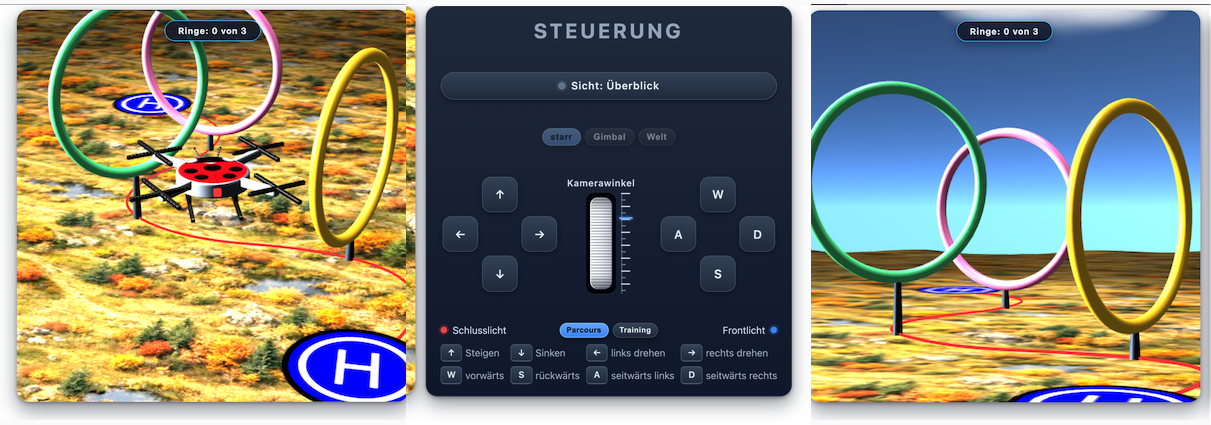
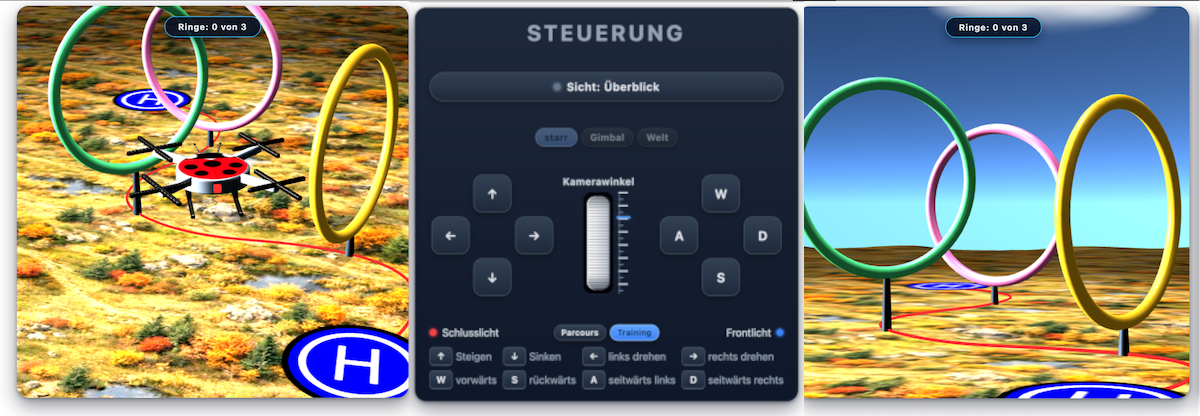
docs: neue README-Aufnahme + Hinweis auf die beiden Levels
- Screenshot-Collage neu (Level-Umschalter zeigt Training als aktiven
  Modus), Alt-Text angepasst
- README: blockzitierter Hinweis auf die beiden Levels Parcours und
  Training direkt unter dem Bild, Steuerungszeile auf Level-Terminologie
  umgestellt

diff --git a/README.md b/README.md
@@ -10,7 +10,12 @@ Der Simulator ist Teil eines Moodle-Kurses zum Thema Drohnen steuern. Der Kurs e
 und rechtliche Anforderungen und Voraussetzungen, im zweiten Teil werden mit Überflugverbotskarten
 und wichtigen Drohnen- und Kameraeinstellungen Flüge geplant.
 
-<img src="docs/drohnensimulator.png" alt="Drohnen-Simulator: Kurs mit drei Ringen" width="700">
+<img src="docs/drohnensimulator.png" alt="Drohnen-Simulator: Steuerung mit dem Level-Umschalter Parcours und Training" width="700">
+
+> **Neu – die beiden Levels:** Im Steuerpanel lässt sich zwischen **Parcours**
+> (drei Ringe auf Pfosten mit Durchflug-Zähler) und **Training** (einfacher Flug vom
+> Start- zum Zielplatz ohne Ringe und Stangen) umschalten – beim Wechsel startet die
+> Drohne neu auf dem Startplatz mit einem frisch gewürfelten Kurs.
 
 ## Features
 
@@ -53,7 +58,7 @@ und wichtigen Drohnen- und Kameraeinstellungen Flüge geplant.
 | Sicht-Knopf | Überblick ↔ FPV (Nase) |
 | `starr \| Gimbal \| Welt` | FPV-Ausrichtung der Kamera |
 | Kamerawinkel-Rad | Kopfneigung in der FPV |
-| `Parcours \| Training` | Modus: Parcours (Ringe + Pfosten) ↔ Training (einfacher Ziel-Flug); Umschalten = Neustart |
+| `Parcours \| Training` | Level: Parcours (Ringe + Pfosten) ↔ Training (einfacher Ziel-Flug); Umschalten = Neustart |
 | Klick auf Erfolgsmeldung | Neuer Kurs (alles neu gewürfelt) |
 | Klick auf Kollisionsmeldung | Meldung ausblenden, Flug fortsetzen |
 
